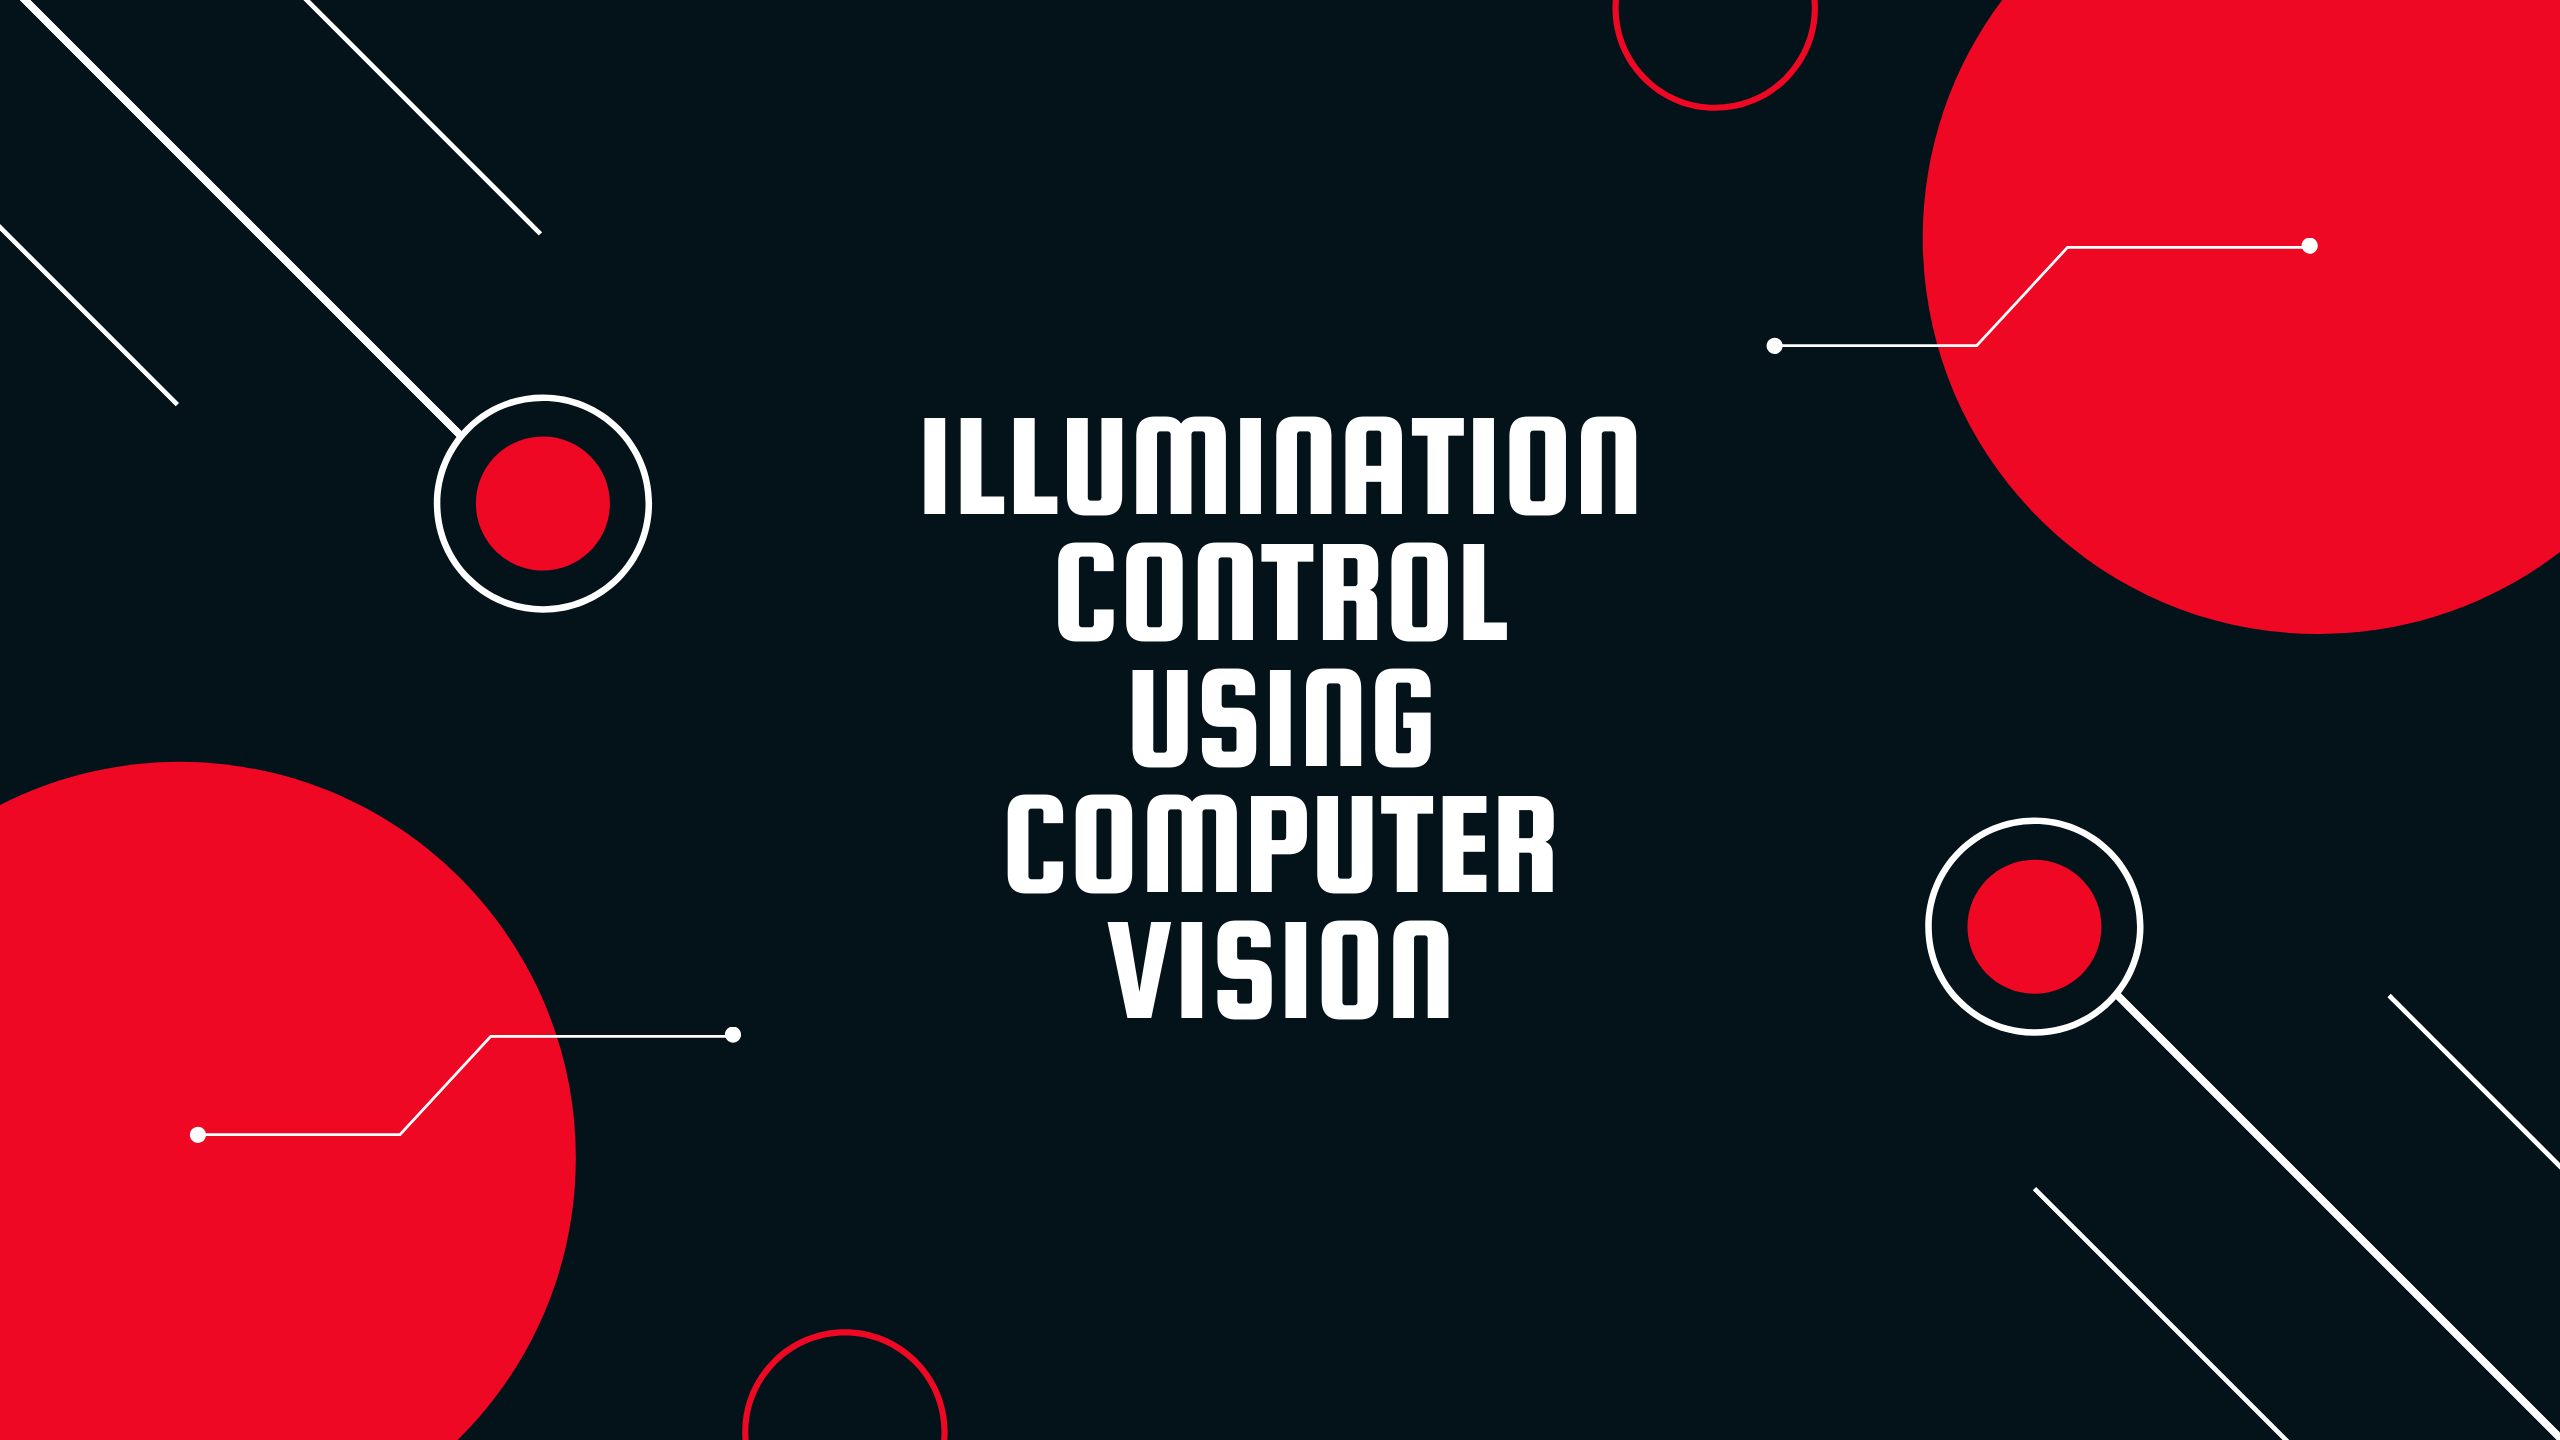
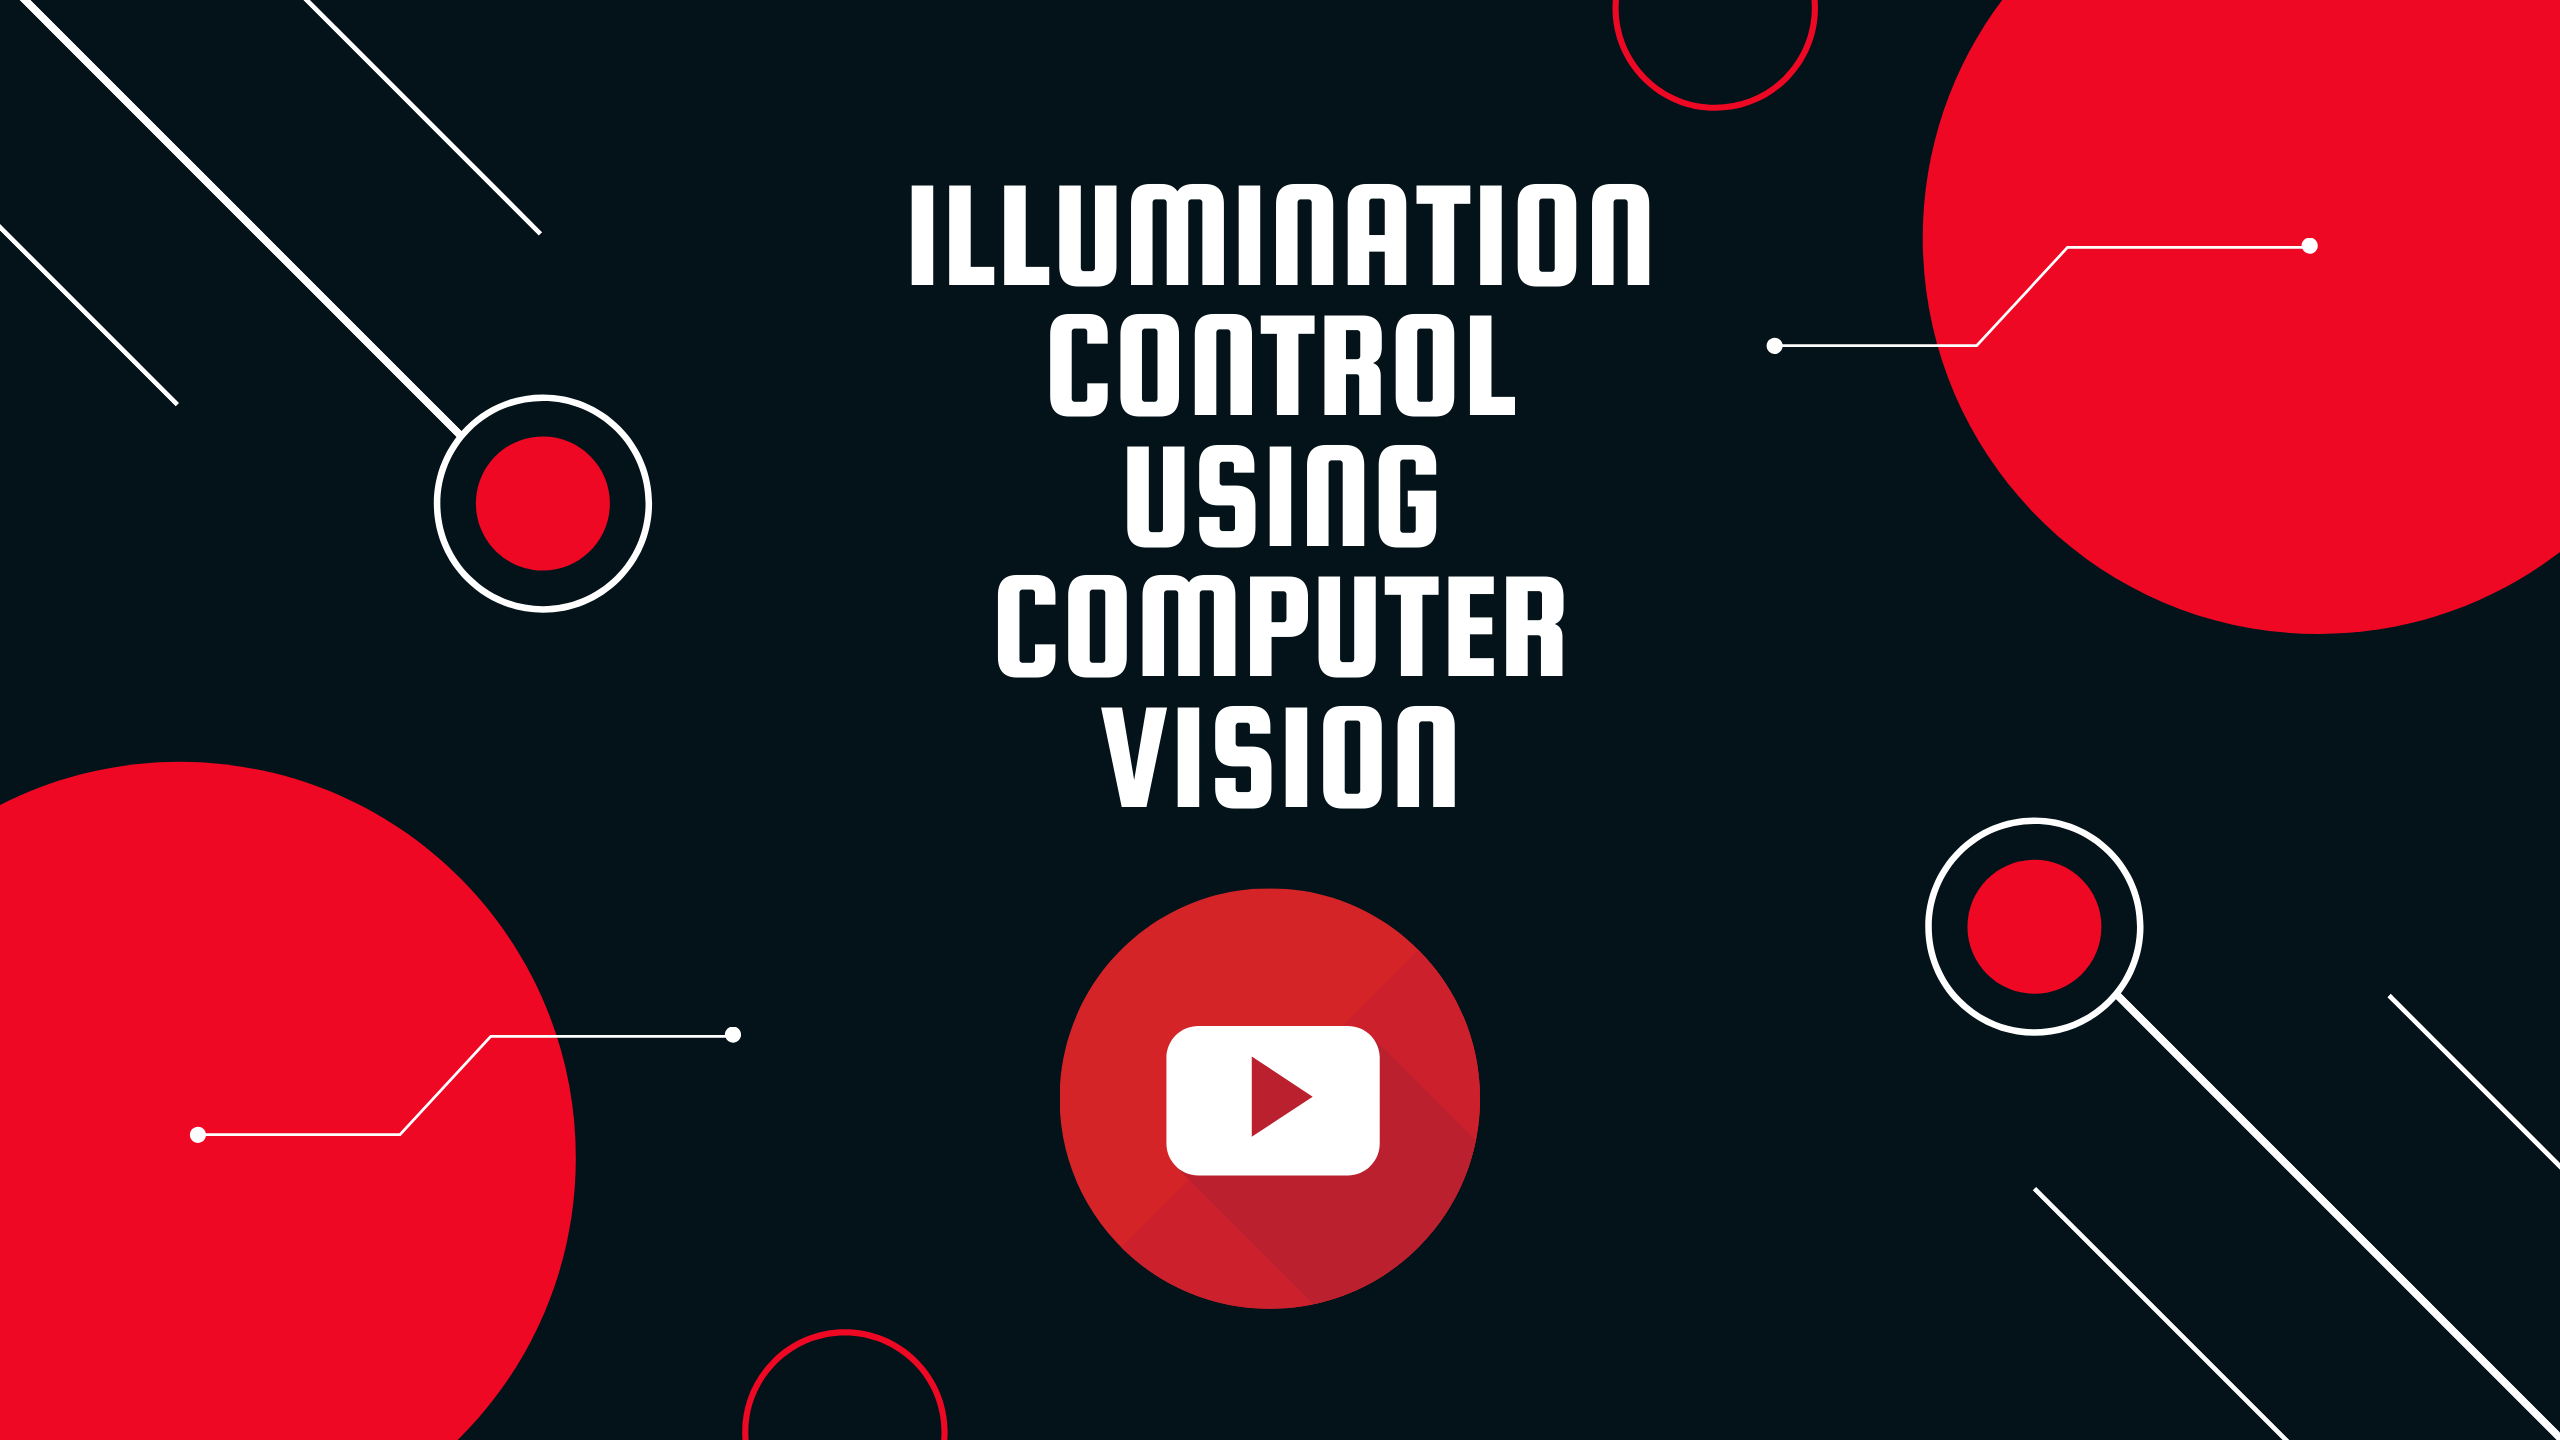
Added Youtube link

Changed region(s): [[0.3438, 0.125, 0.6562, 0.9062]]

diff --git a/Readme.md b/Readme.md
@@ -28,7 +28,8 @@ Illumination Control 🔆 Using Computer Vision 👁
 - Pyserial
 - Numpy
 - Python-Math
-
+#### Youtube Video Link
+<a href = "https://youtu.be/398RqwcYSrU"><img src = "./Images/VideoBanner.png" width = 60%></a>
 
 
 # Introduction
@@ -128,14 +129,8 @@ This code given above sets the data according to the received value which is in 
 
 # Final Output
 
-<iframe width="560" height="315" src="https://www.youtube.com/embed/398RqwcYSrU?start=42" title="YouTube video player" frameborder="0" allow="accelerometer; autoplay; clipboard-write; encrypted-media; gyroscope; picture-in-picture" allowfullscreen>
-</iframe>
 
-
-
-
-
-
+https://user-images.githubusercontent.com/74176824/145882379-64b5282a-f826-49ea-83d1-42db3e25ac00.mp4
 
 
 
